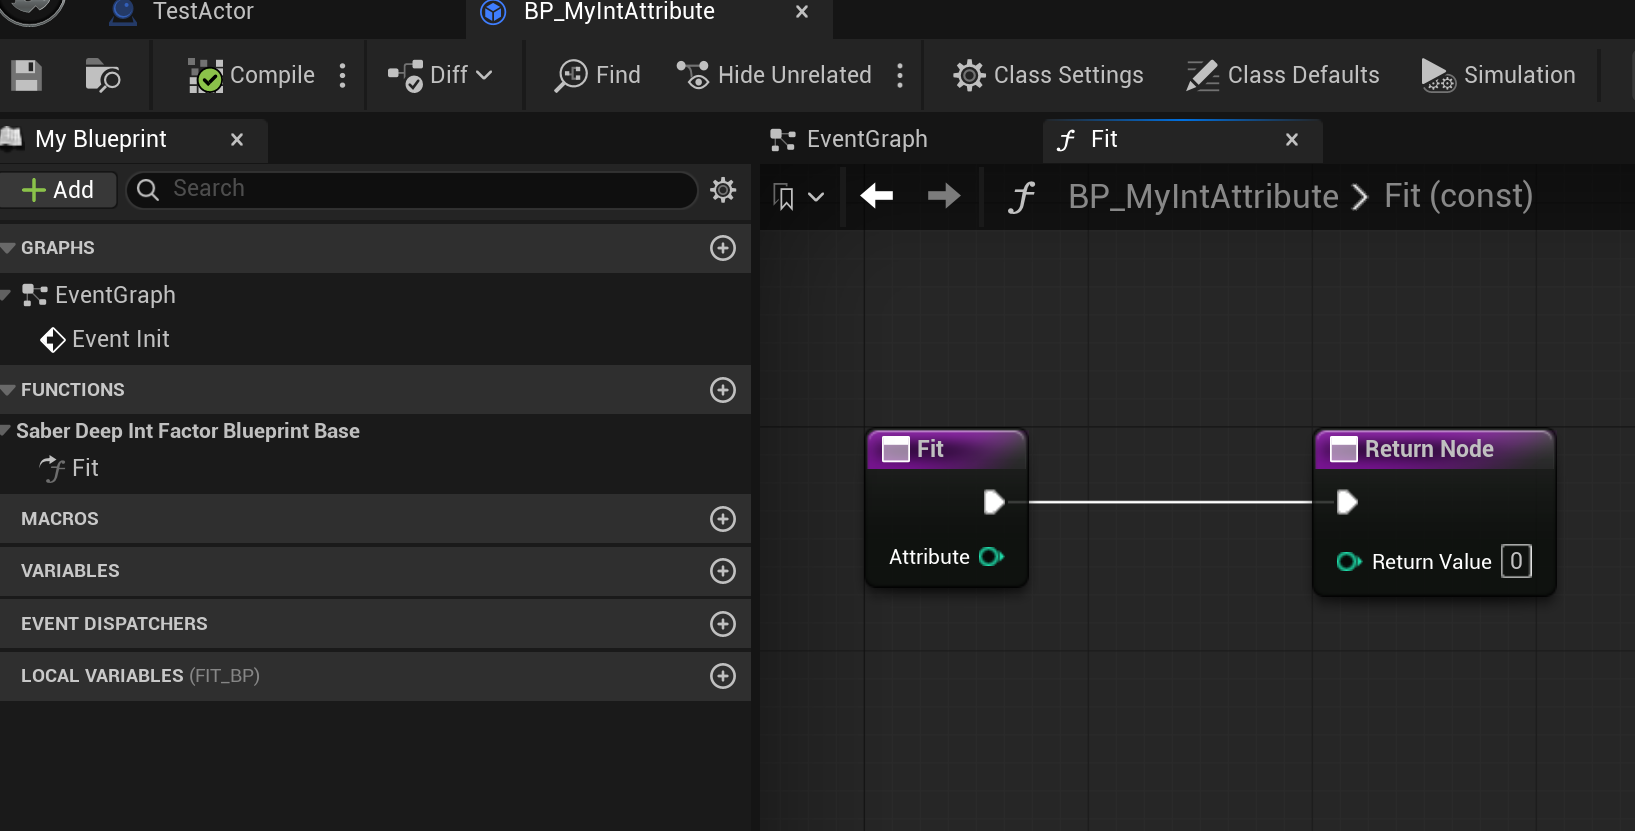
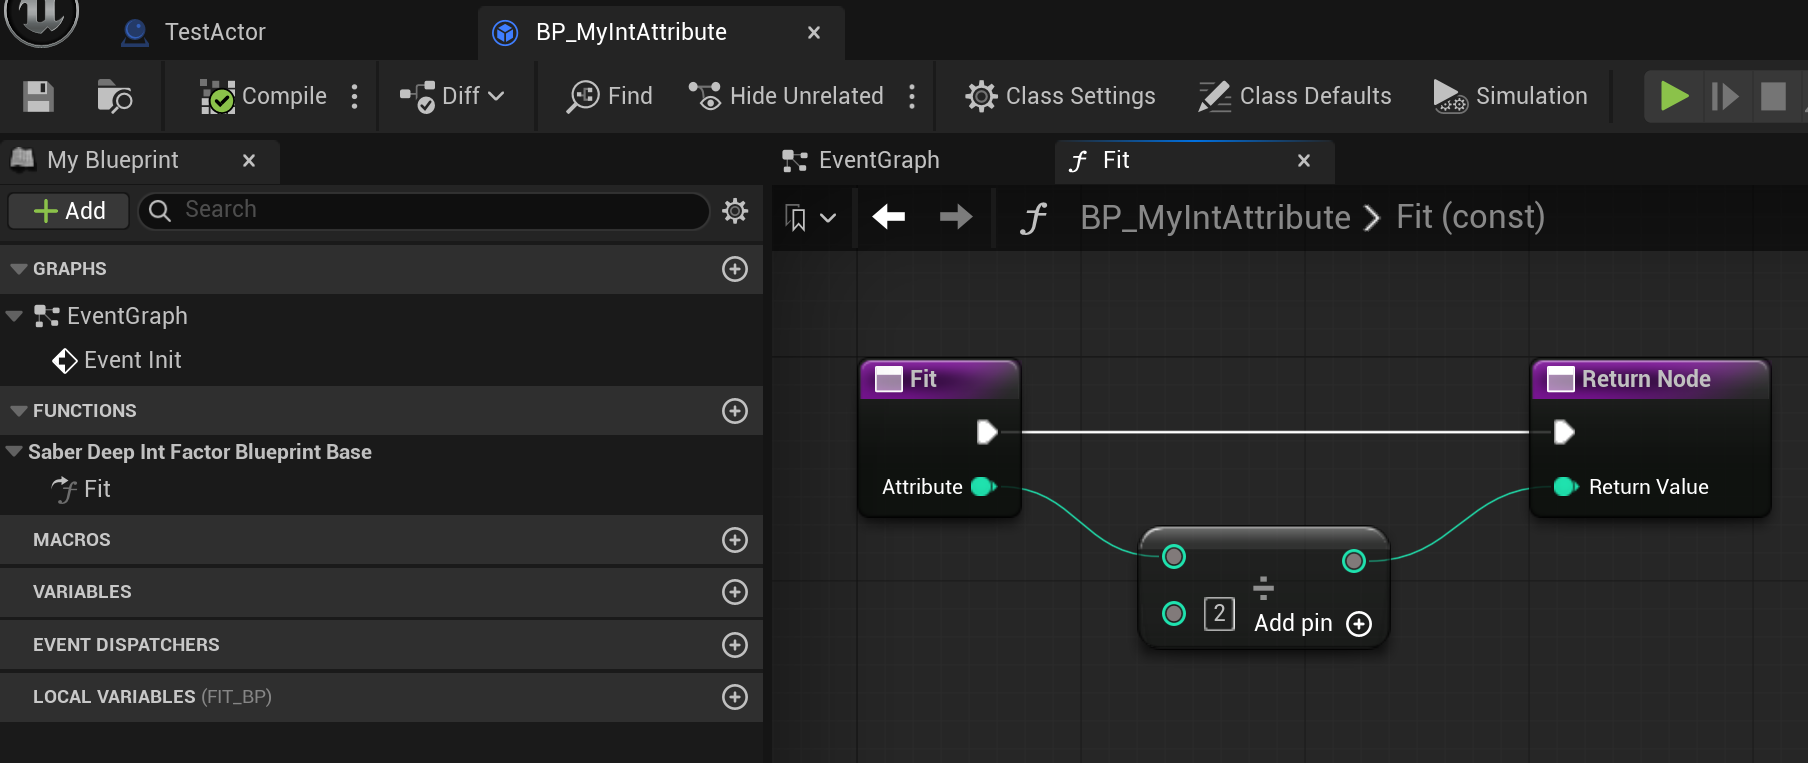
Add SaberDeep quick start screenshot

diff --git a/docs/saberdeep/quick-start.md b/docs/saberdeep/quick-start.md
@@ -33,6 +33,8 @@ Basic flow:
 7. Insert the factor into the attribute.
 8. Read `Get Final`.
 
+![Blueprint quick start flow for SaberDeep Int](../assets/saberdeep/quick_start.png){ .saber-screenshot }
+
 If `Auto Refresh` is enabled, `Final` updates when the factor is inserted.
 
 ## C++ Quick Start